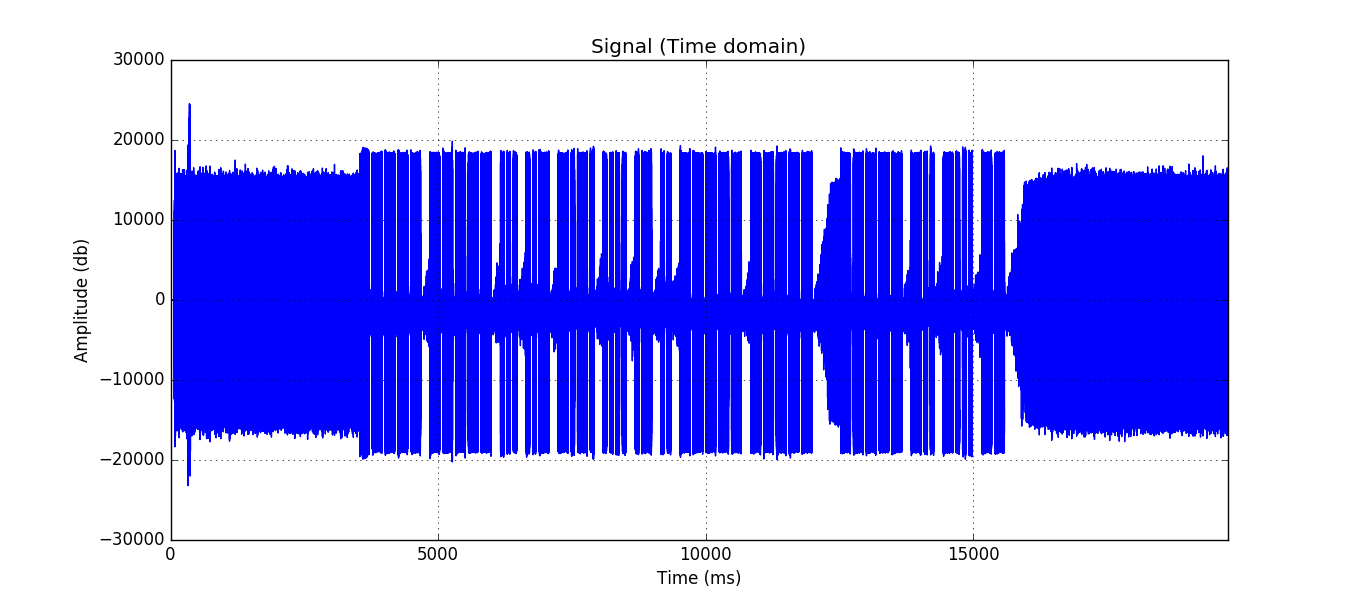
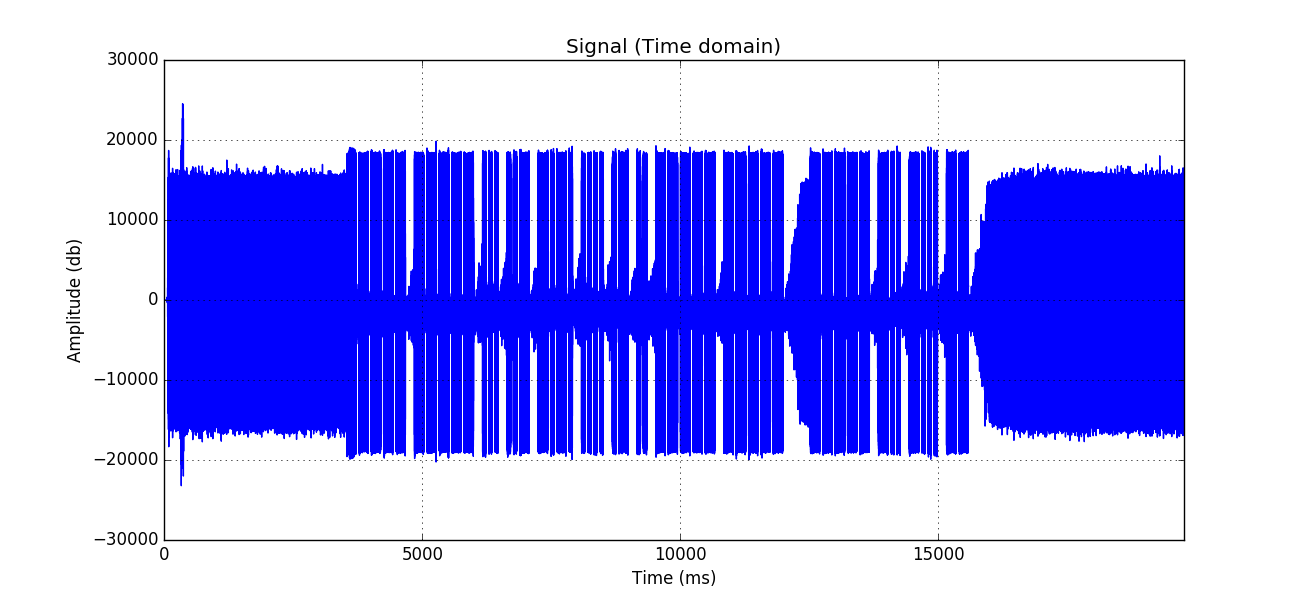
Implementación filtro FIR

diff --git a/lib/modulo_wav.py b/lib/modulo_wav.py
@@ -2,18 +2,21 @@ import os
 import sys
 import logging
 import wave
-import pyaudio
+#import pyaudio
 import matplotlib.pyplot as plt
 import numpy as np
+import scipy
 from scipy.fftpack import fft, fft2
 from scipy.io import wavfile
 from math import pi
+from scipy import signal
+from scipy.signal import firwin, lfilter
 
 PATH_MAIN = os.path.normpath(os.getcwd())
 PATH_AUDIO_RESOURCES = os.path.join(PATH_MAIN,"resources","audio_files")
 PLOT_FILES_PATH = os.path.join(PATH_MAIN, "plot_files")
 
-FORMAT = pyaudio.paInt16    # Bit-Depth (Scipy supports only 16bit and 32bit)
+#FORMAT = pyaudio.paInt16    # Bit-Depth (Scipy supports only 16bit and 32bit)
 CHANNELS = 2                # Two Channels for Stereo Sound
 RATE = 44100                # 44100 Samples per Second (CD-quality)
 CHUNK = 1024                # We record 1024 bytes of data
@@ -59,72 +62,72 @@ def printWavFileInfo(wavfile):
     print(">>> Audio frames: {}".format(wavfile.getnframes()))
 
 
-def playWavFile(filename):
-    """Receives a filename and reproduce the sound of the wav file associated"""
+#def playWavFile(filename):
+  #  """Receives a filename and reproduce the sound of the wav file associated"""
 
-    wf = openWavFile(filename,"rb")
-
-    # Initializing PyAudio (Warning: Some error messages could appear. Probably not important)
-    print("Initializing PyAudio...\n(If you see messages above, it's not programs's fault.)")
-    audio = pyaudio.PyAudio()
-    print("End of PyAudio initialization.")
-
-    stream = audio.open(
-        format = audio.get_format_from_width(wf.getsampwidth()),
-        channels = wf.getnchannels(),
-        rate = wf.getframerate(),
-        output = True
-    )
-
-    data = wf.readframes(CHUNK)
-    while data != '':
-        stream.write(data)
-        data = wf.readframes(CHUNK)
-
-    stream.close()
-    audio.terminate()
-    closeWavFile(wf)
-
-def recordWavFile(record_name, record_seconds):
-    """Records a wavfile for a certain amount of seconds"""
+   # wf = openWavFile(filename,"rb")
 
     # Initializing PyAudio (Warning: Some error messages could appear. Probably not important)
-    print("Initializing PyAudio...\n(If you see messages above, it's not programs's fault.)")
-    audio = pyaudio.PyAudio()
-    print("End of PyAudio initialization.")
+#    print("Initializing PyAudio...\n(If you see messages above, it's not programs's fault.)")
+ #   audio = pyaudio.PyAudio()
+ #   print("End of PyAudio initialization.")
 
-    stream = audio.open(
-        format=FORMAT,
-        channels=CHANNELS,
-        rate=RATE,
-        input=True,
-        frames_per_buffer= CHUNK
-    )
+ #   stream = audio.open(
+  #      format = audio.get_format_from_width(wf.getsampwidth()),
+  #      channels = wf.getnchannels(),
+  #      rate = wf.getframerate(),
+  #      output = True
+  #  )
+
+   # data = wf.readframes(CHUNK)
+   # while data != '':
+   #     stream.write(data)
+   #     data = wf.readframes(CHUNK)
+
+  #  stream.close()
+  #  audio.terminate()
+   # closeWavFile(wf)
+
+#def recordWavFile(record_name, record_seconds):
+   # """Records a wavfile for a certain amount of seconds"""
+
+    # Initializing PyAudio (Warning: Some error messages could appear. Probably not important)
+ #   print("Initializing PyAudio...\n(If you see messages above, it's not programs's fault.)")
+    #audio = pyaudio.PyAudio()
+ #   print("End of PyAudio initialization.")
+
+  #  stream = audio.open(
+  #      format=FORMAT,
+  #      channels=CHANNELS,
+  #      rate=RATE,
+  #      input=True,
+  #      frames_per_buffer= CHUNK
+  #  )
 
     # Start Recording
-    print('\tNow recording...')
-    frames = []
-    for i in range(0, int(RATE / CHUNK * record_seconds)):
-        data = stream.read(CHUNK)
-        frames.append(data)
-    print('\tThe recording has ben completed')
+  #  print('\tNow recording...')
+  #  frames = []
+  #  for i in range(0, int(RATE / CHUNK * record_seconds)):
+  #      data = stream.read(CHUNK)
+  #      frames.append(data)
+  #  print('\tThe recording has ben completed')
 
     # Stop Recording
-    stream.stop_stream()
-    stream.close()
-    audio.terminate()
+#    stream.stop_stream()
+ #   stream.close()
+ #   audio.terminate()
 
     # Save Recording
-    wf = openWavFile(record_name, "wb")
-    writeWavFile(wf, audio, frames)
-    closeWavFile(wf)
+  #  wf = openWavFile(record_name, "wb")
+   # writeWavFile(wf, audio, frames)
+   # closeWavFile(wf)
 
-def writeWavFile(wavefile, audio, frames):
-    """ Writes data and audio over a wavefile """
-    wavefile.setnchannels(CHANNELS)
-    wavefile.setsampwidth(audio.get_sample_size(FORMAT))
-    wavefile.setframerate(RATE)
-    wavefile.writeframes(b''.join(frames))
+#def writeWavFile(wavefile, audio, frames):
+ #   """ Writes data and audio over a wavefile """
+ #   wavefile.setnchannels(CHANNELS)
+ #   wavefile.setsampwidth(audio.get_sample_size(FORMAT))
+ #   wavefile.setframerate(RATE)
+ #   wavefile.writeframes(b''.join(frames))
 
 
 def analyzeWavFile(filename):
@@ -133,6 +136,8 @@ def analyzeWavFile(filename):
     audioPath = formatWavPath(filename)
     sampFreq, data = wavfile.read(audioPath)
 
+    data0=data
+
     # Obtaining Sampling Points and Number of channels:
     if (len(data.shape) == 1):                  # Audio with one channel only
         sampPoints = data.shape[0]
@@ -140,6 +145,9 @@ def analyzeWavFile(filename):
         sampPoints, channels = data.shape
         data = data[:, 0]
 
+    data2=data
+
+    firFilter(data0,data2)
 
     print("Now plotting. This could take some time, please wait...")
     # Plotting the signal on time domain
@@ -193,4 +201,15 @@ def plotSignalFrequencyDomain(data, sampFreq):
 def savePlotFigure(figure, filename):
     figure.savefig(os.path.join(PATH_MAIN, "resources","plots", filename), dpi=figure.dpi)
 
+def firFilter(data0,data2):
+    t = np.linspace(-1, 1, 201)
+    ntaps=1
+    b = firwin(ntaps, [0.05, 0.95], width=0.05, pass_zero=False)
+    y=signal.lfilter(b, [1.0], data0)
+    plt.figure
+    #plt.plot(t, data2, 'b', alpha=0.75)
+    plt.plot(y, 'b')
+    plt.legend(('lfilter, once'), loc = 'best')
+    plt.grid(True)
+    plt.show()
 
